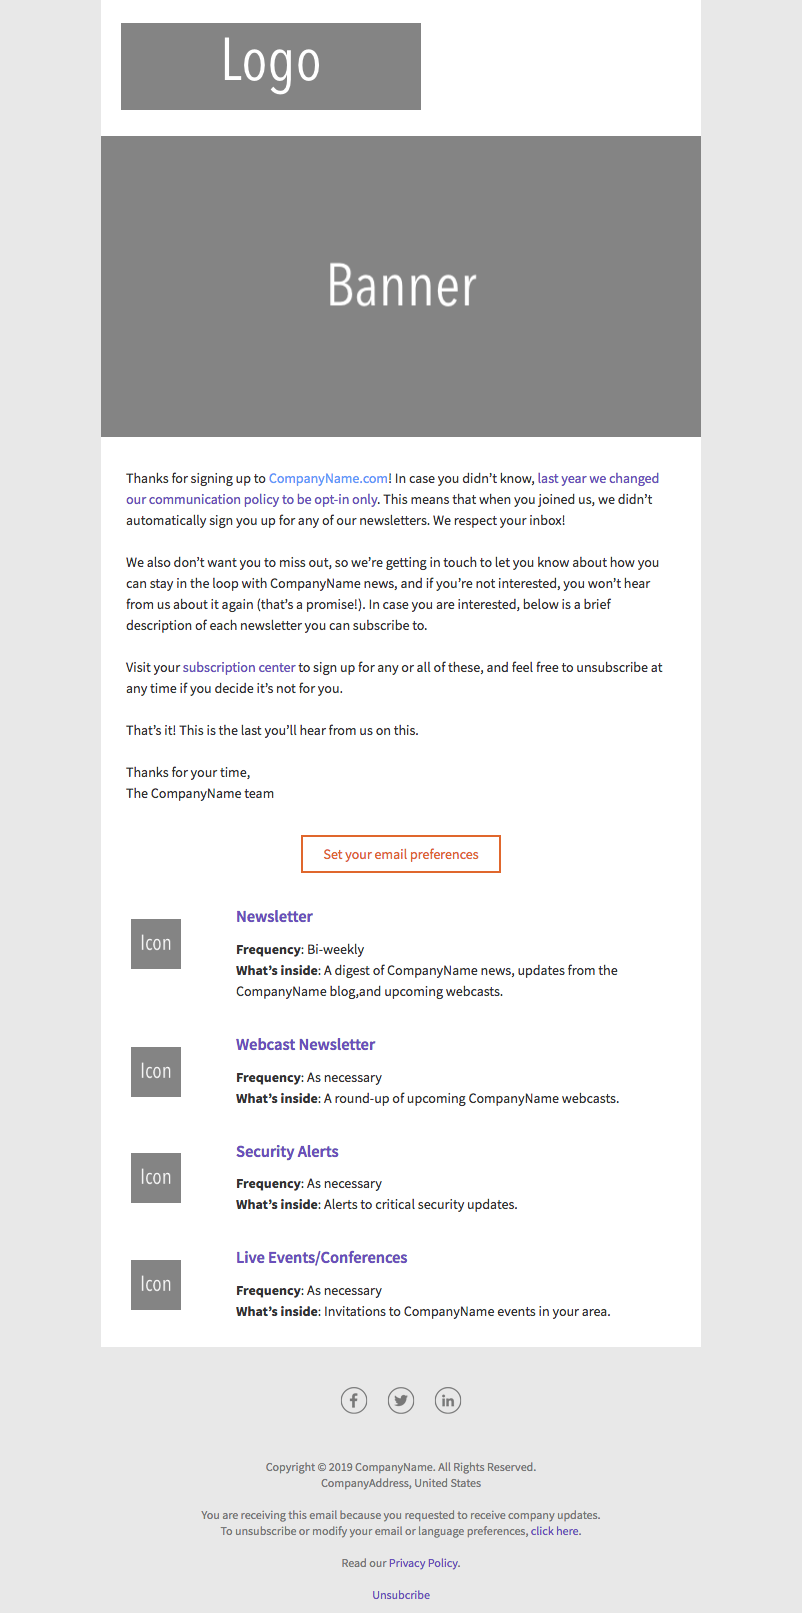
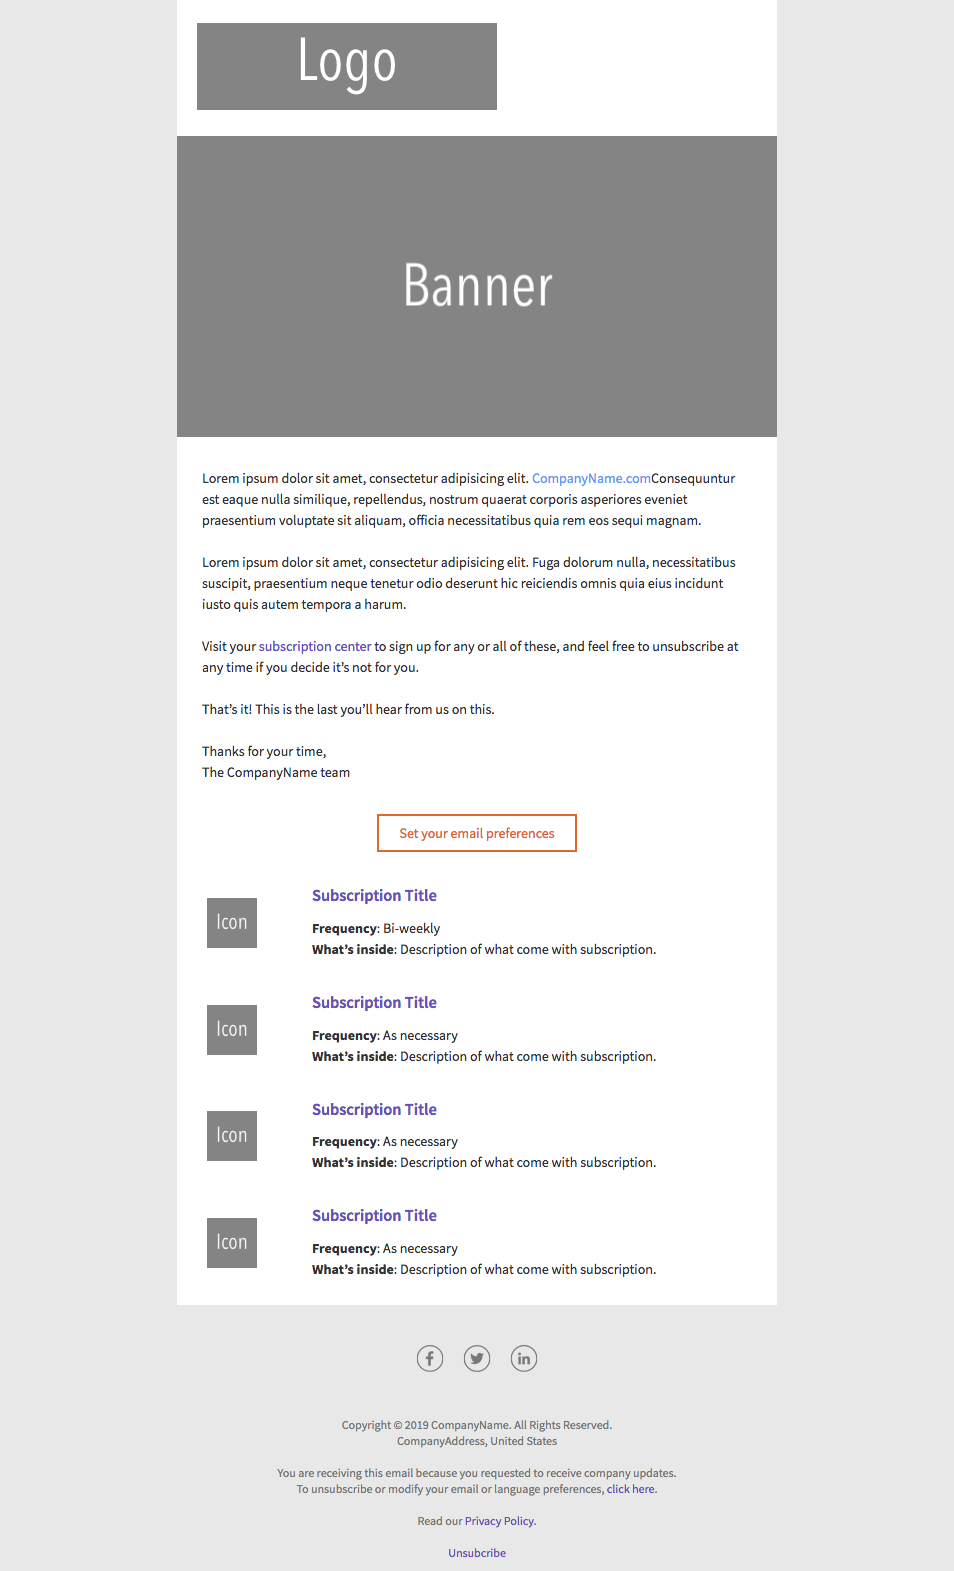
Update signup-email

diff --git a/mockups/signup-email/index.htm b/mockups/signup-email/index.htm
@@ -62,9 +62,9 @@
 									<tr>
 										<td>
 											<p style="margin: 0;">
-												Thanks for signing up to <a href="#" style="text-decoration: none; color:#5F9CF9;">CompanyName.com</a>! In case you didn’t know, <a href="#" style="text-decoration: none; color:#6B4FBB;">last year we changed our communication policy to be opt-in only</a>. This means that when you joined us, we didn’t automatically sign you up for any of our newsletters. We respect your inbox!<br><br>
+												Lorem ipsum dolor sit amet, consectetur adipisicing elit. <a href="#" style="text-decoration: none; color:#5F9CF9;">CompanyName.com</a>Consequuntur est eaque nulla similique, repellendus, nostrum quaerat corporis asperiores eveniet praesentium voluptate sit aliquam, officia necessitatibus quia rem eos sequi magnam.<br><br>
 
-												We also don’t want you to miss out, so we’re getting in touch to let you know about how you can stay in the loop with CompanyName news, and if you’re not interested, you won’t hear from us about it again (that’s a promise!). In case you are interested, below is a brief description of each newsletter you can subscribe to.<br><br>
+												Lorem ipsum dolor sit amet, consectetur adipisicing elit. Fuga dolorum nulla, necessitatibus suscipit, praesentium neque tenetur odio deserunt hic reiciendis omnis quia eius incidunt iusto quis autem tempora a harum.<br><br>
 												
 												Visit your <a href="#" style="text-decoration: none; color:#6B4FBB;">subscription center</a> to sign up for any or all of these, and feel free to unsubscribe at any time if you decide it’s not for you.<br><br>
 												
@@ -101,14 +101,14 @@
 														<table width="80%" cellspacing="0" cellpadding="0" border="0" align="left">
 															<tr>
 																<td>
-																	<h3 style="color:#6B4FBB; font-weight: 600; margin: 0; padding: 0 0 10px;">Newsletter</h3>
+																	<h3 style="color:#6B4FBB; font-weight: 600; margin: 0; padding: 0 0 10px;">Subscription Title</h3>
 																</td>
 															</tr>
 															<tr>
 																<td>
 																	<p style="margin: 0;">
 																		<span style="font-weight: 700;">Frequency</span>: Bi-weekly<br>
-																		<span style="font-weight: 700;">What’s inside</span>: A digest of CompanyName news, updates from the CompanyName blog,and upcoming webcasts.
+																		<span style="font-weight: 700;">What’s inside</span>: Description of what come with subscription.
 																	</p>
 																</td>
 															</tr>
@@ -127,14 +127,14 @@
 														<table width="80%" cellspacing="0" cellpadding="0" border="0" align="left">
 															<tr>
 																<td>
-																	<h3 style="color:#6B4FBB; font-weight: 600; margin: 0; padding: 0 0 10px;">Webcast Newsletter</h3>
+																	<h3 style="color:#6B4FBB; font-weight: 600; margin: 0; padding: 0 0 10px;">Subscription Title</h3>
 																</td>
 															</tr>
 															<tr>
 																<td>
 																	<p style="margin: 0;">
 																		<span style="font-weight: 700;">Frequency</span>: As necessary<br>
-																		<span style="font-weight: 700;">What’s inside</span>: A round-up of upcoming CompanyName webcasts.
+																		<span style="font-weight: 700;">What’s inside</span>: Description of what come with subscription.
 																	</p>
 																</td>
 															</tr>
@@ -153,14 +153,14 @@
 														<table width="80%" cellspacing="0" cellpadding="0" border="0" align="left">
 															<tr>
 																<td>
-																	<h3 style="color:#6B4FBB; font-weight: 600; margin: 0; padding: 0 0 10px;">Security Alerts</h3>
+																	<h3 style="color:#6B4FBB; font-weight: 600; margin: 0; padding: 0 0 10px;">Subscription Title</h3>
 																</td>
 															</tr>
 															<tr>
 																<td>
 																	<p style="margin: 0;">
 																		<span style="font-weight: 700;">Frequency</span>: As necessary<br>
-																		<span style="font-weight: 700;">What’s inside</span>: Alerts to critical security updates.
+																		<span style="font-weight: 700;">What’s inside</span>: Description of what come with subscription.
 																	</p>
 																</td>
 															</tr>
@@ -179,14 +179,14 @@
 														<table width="80%" cellspacing="0" cellpadding="0" border="0" align="left">
 															<tr>
 																<td>
-																	<h3 style="color:#6B4FBB; font-weight: 600; margin: 0; padding: 0 0 10px;">Live Events/Conferences</h3>
+																	<h3 style="color:#6B4FBB; font-weight: 600; margin: 0; padding: 0 0 10px;">Subscription Title</h3>
 																</td>
 															</tr>
 															<tr>
 																<td>
 																	<p style="margin: 0;">
 																		<span style="font-weight: 700;">Frequency</span>: As necessary<br>
-																		<span style="font-weight: 700;">What’s inside</span>: Invitations to CompanyName events in your area.
+																		<span style="font-weight: 700;">What’s inside</span>: Description of what come with subscription.
 																	</p>
 																</td>
 															</tr>
